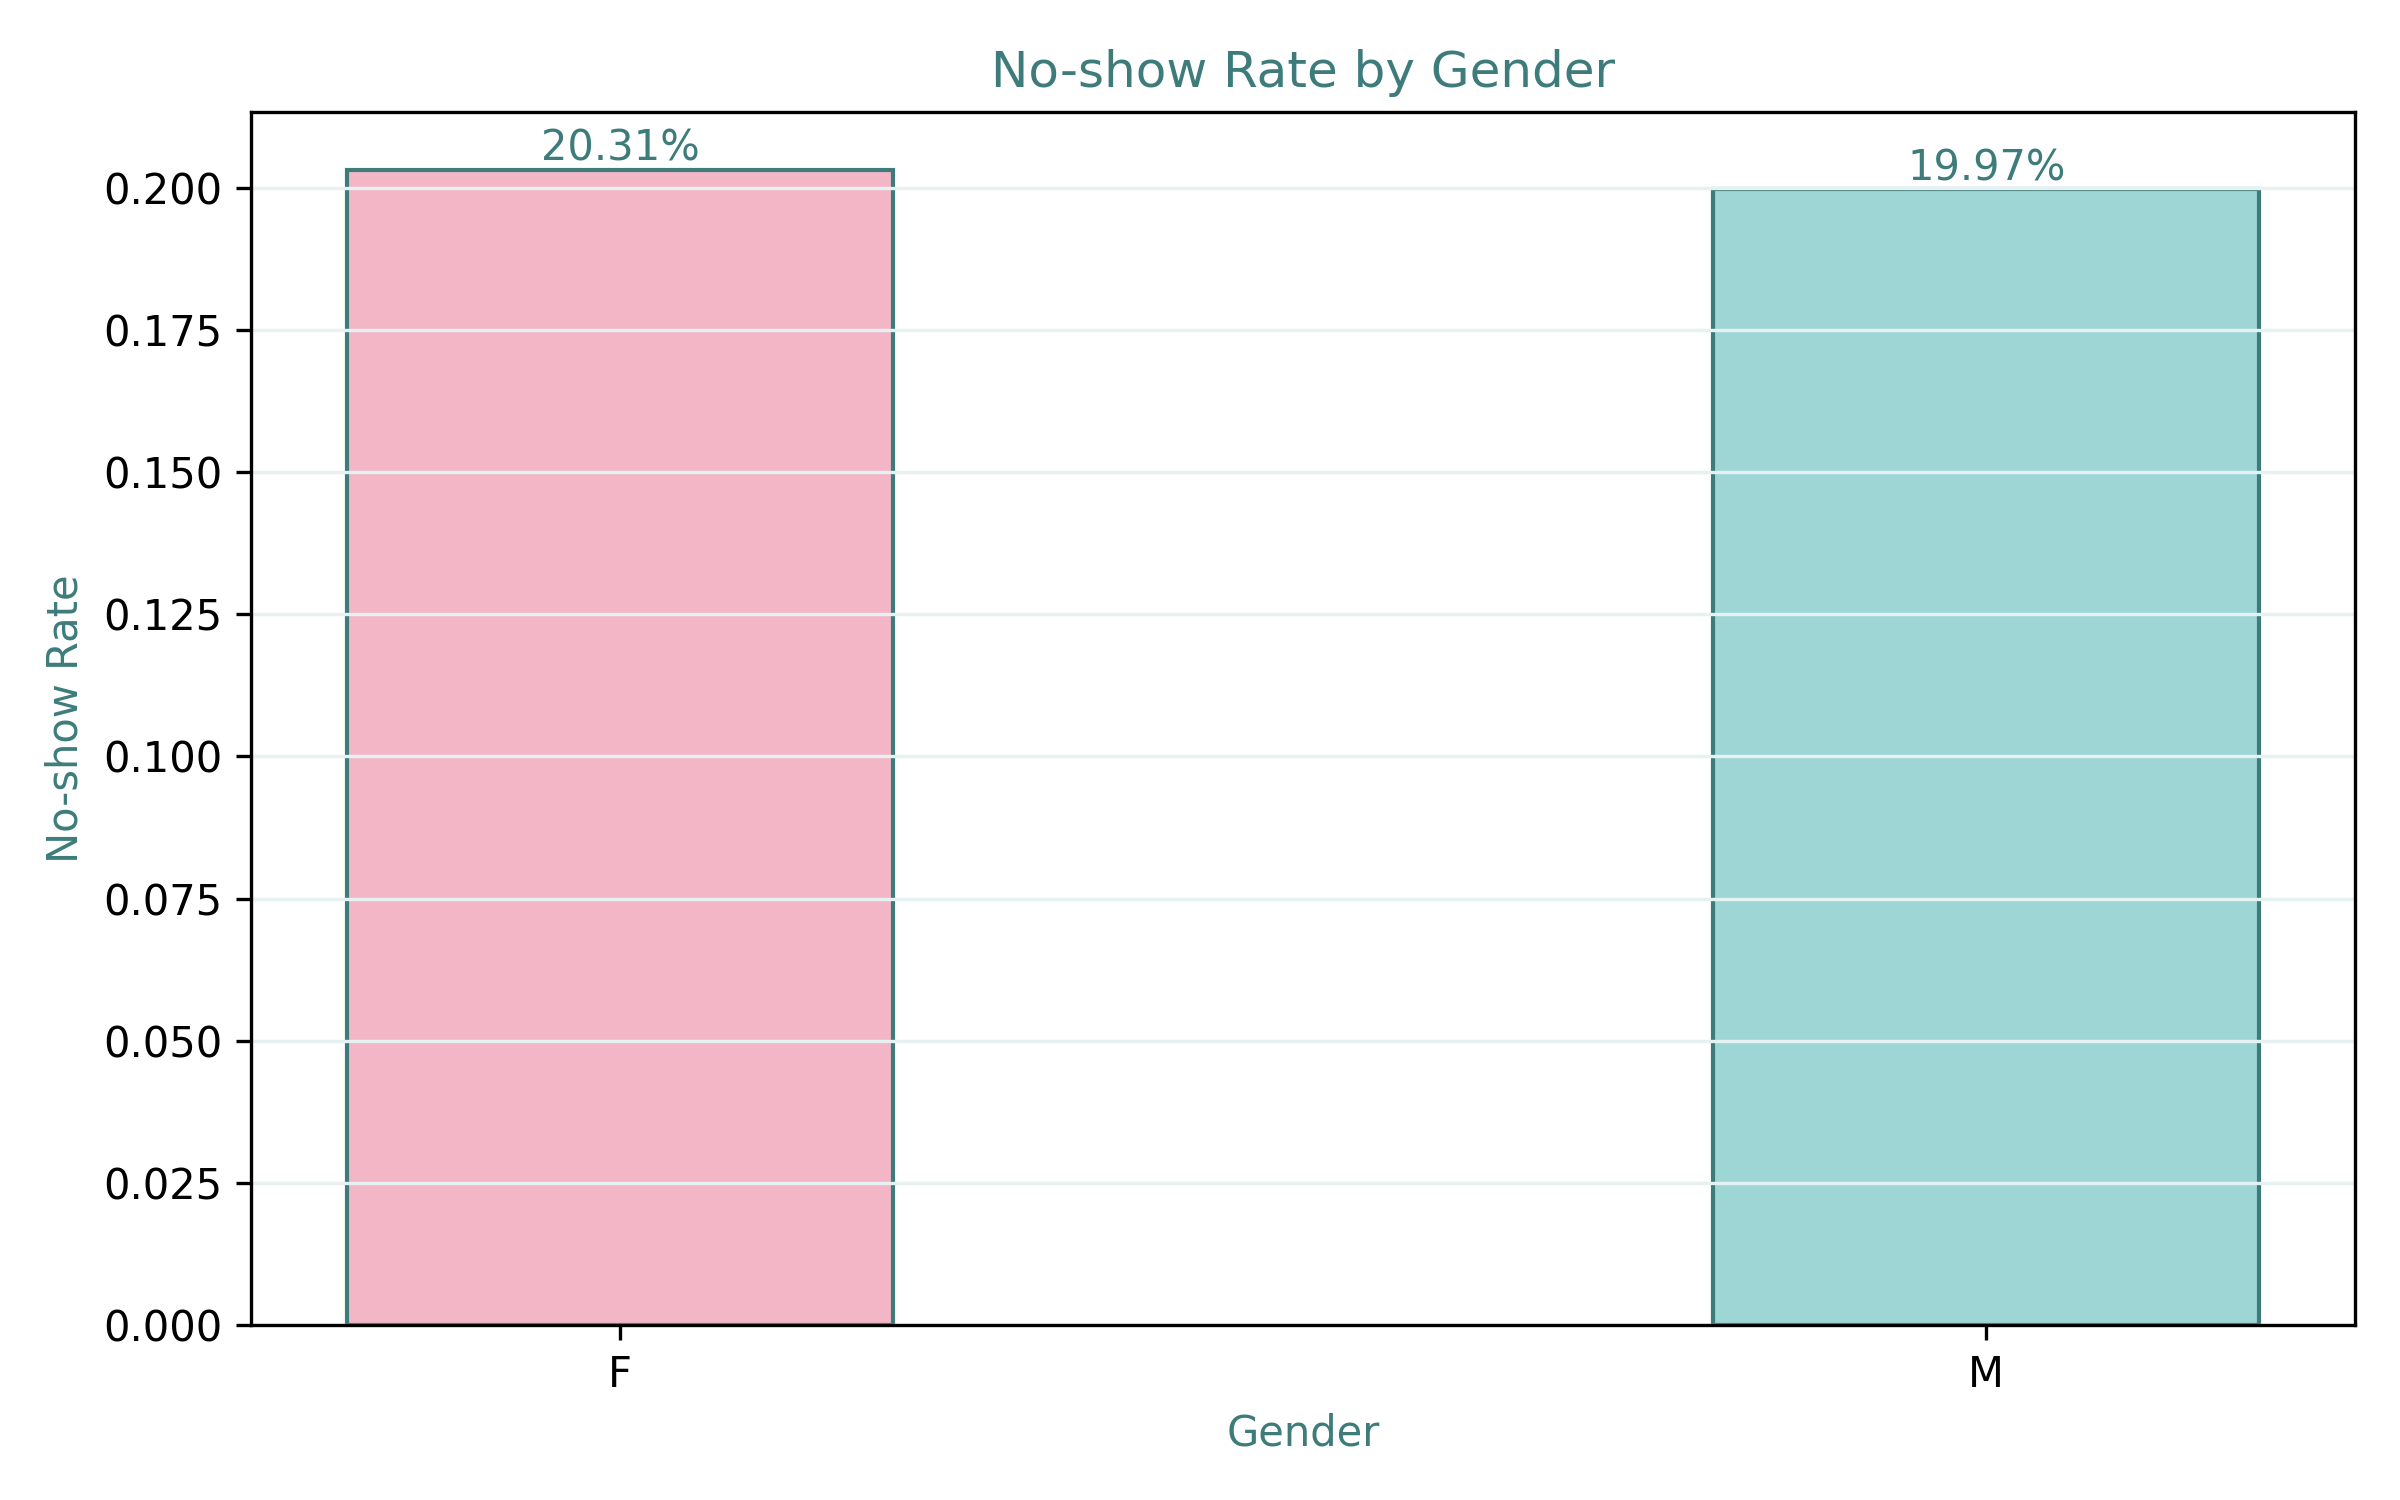
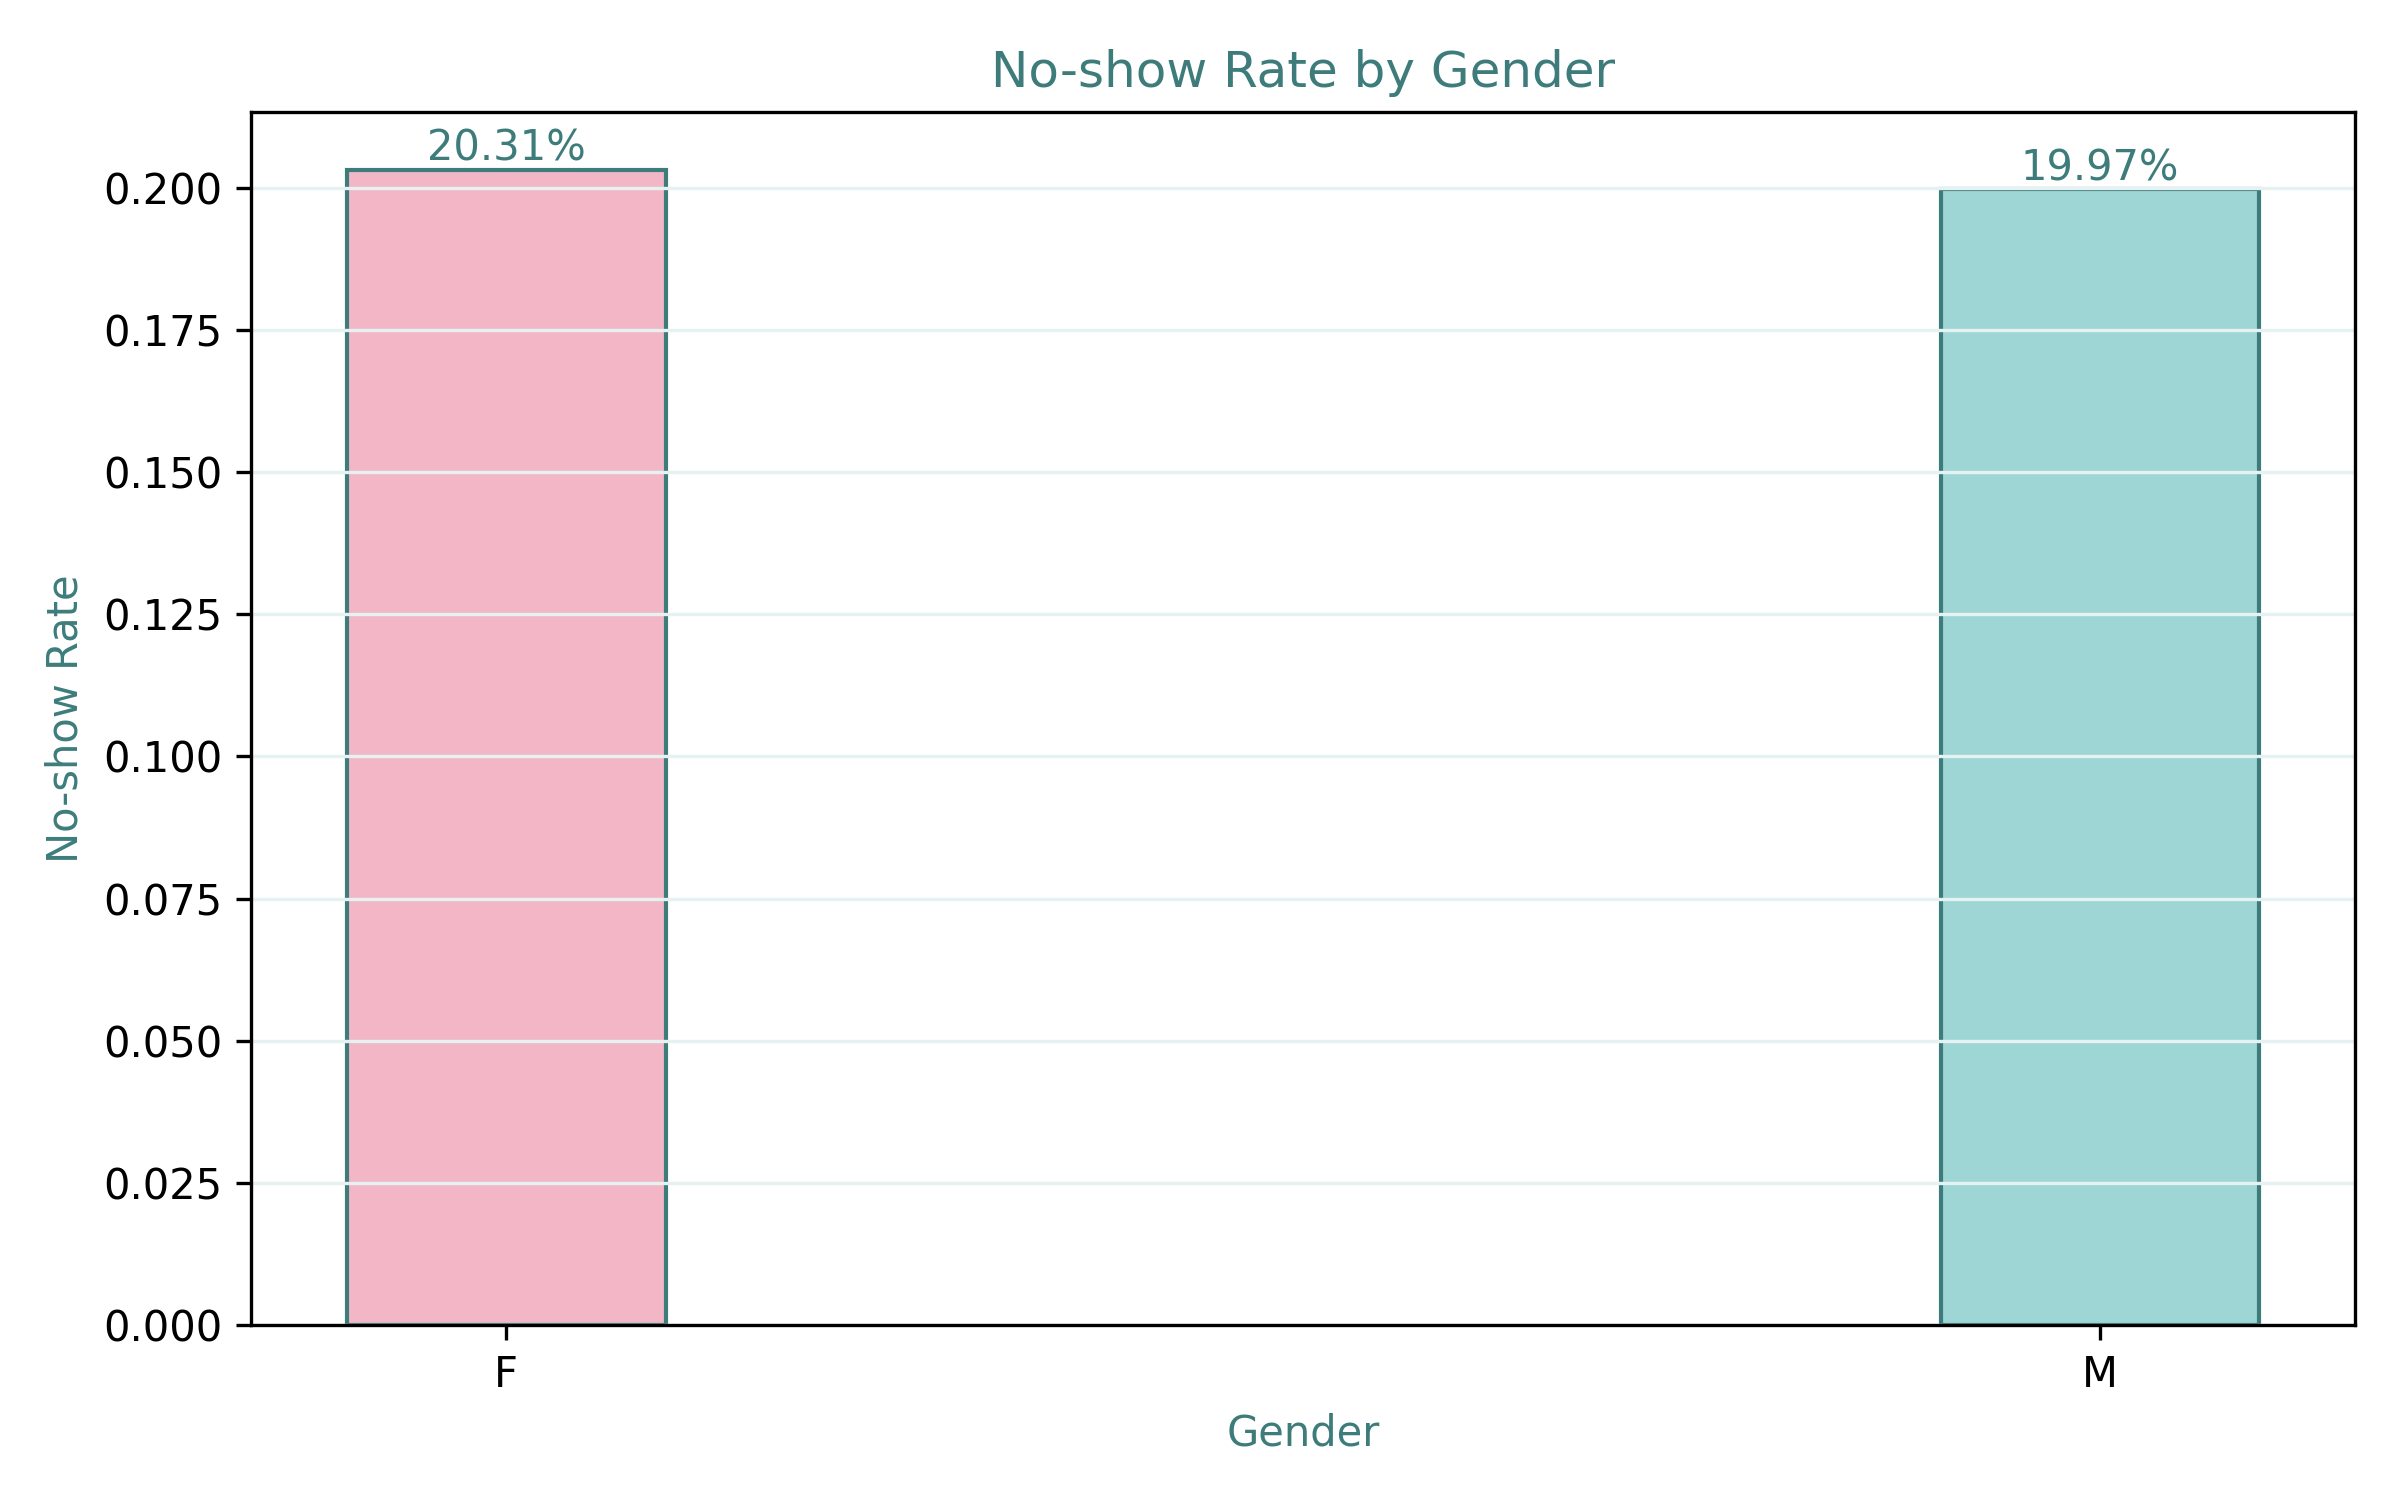
README.md update

Changed region(s): [[0.1875, 0.092, 0.375, 0.8893], [0.6875, 0.092, 0.9062, 0.8893], [0.8125, 0.8893, 0.8438, 0.92]]

diff --git a/src/visualization.py b/src/visualization.py
@@ -179,7 +179,7 @@ def _plot_noshow_by_gender(csv_dir, fig_dir):
         df["noshow_rate"],
         color=colors,
         edgecolor=DARK_COLOR,
-        width=0.4
+        width=0.2
     )
 
     plt.title("No-show Rate by Gender", color=DARK_COLOR)
